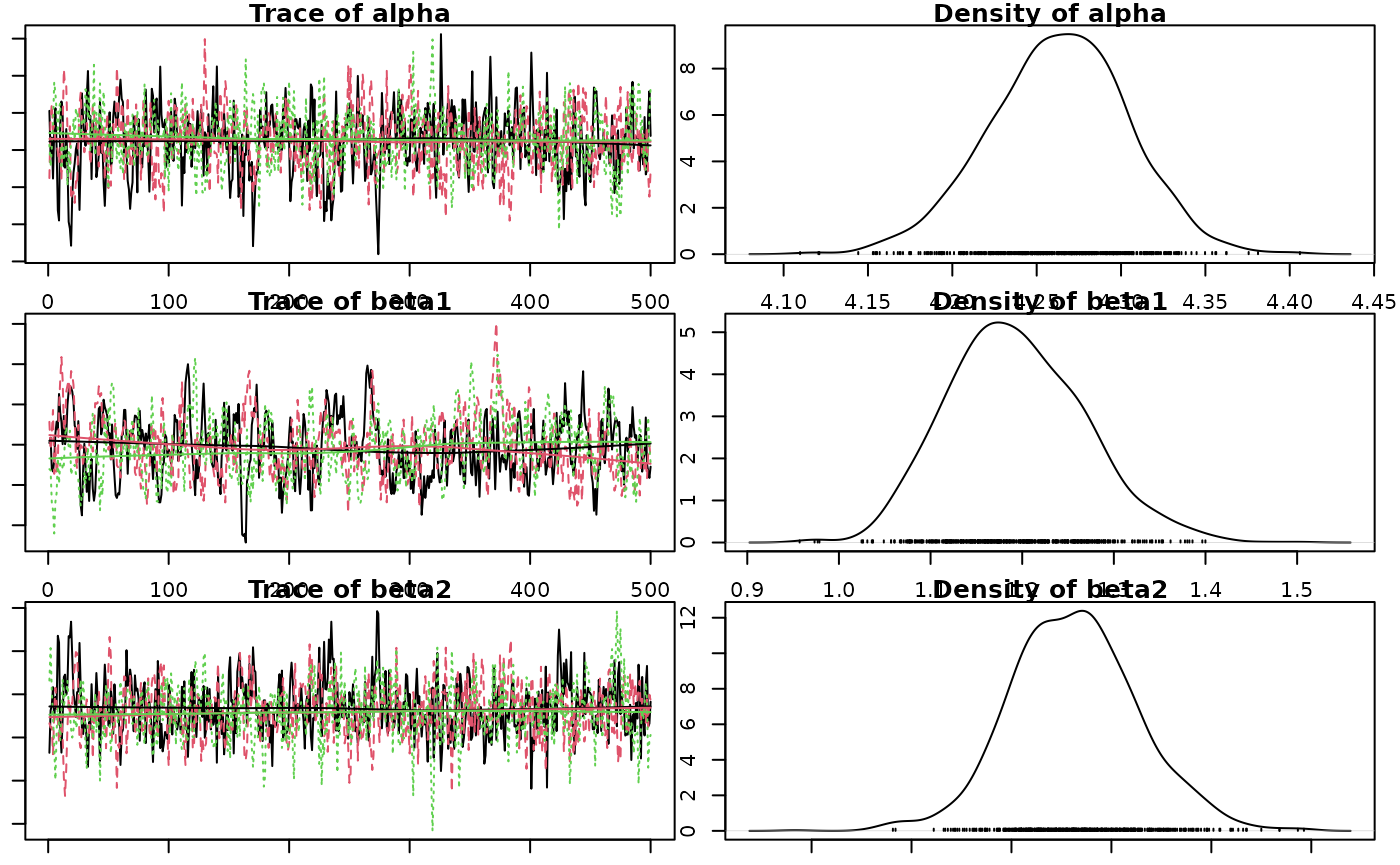
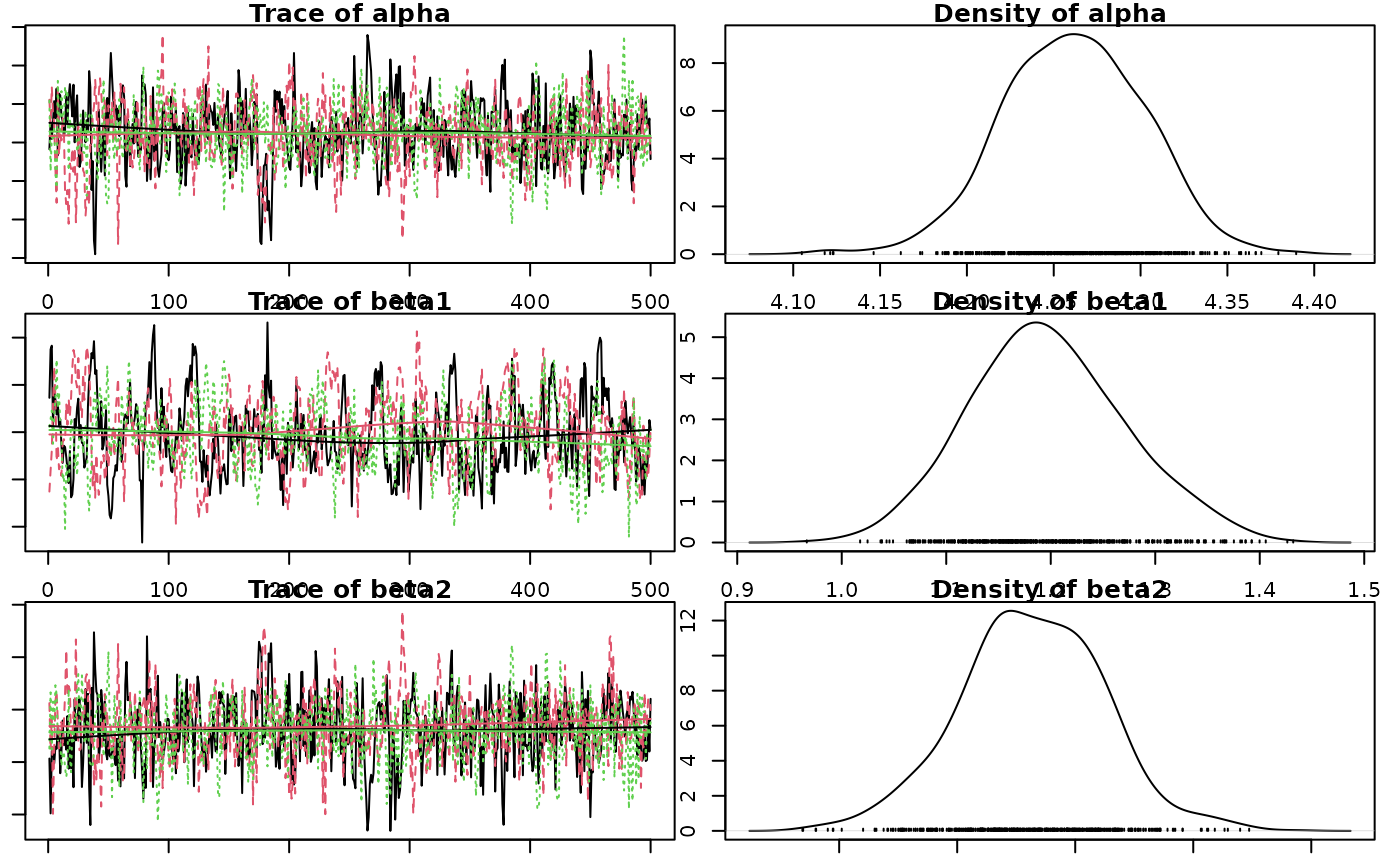
Deploying to gh-pages from @ poissonconsulting/jmbr@fb7d1556a06fde5bd15ce977d49843e7e1ca3788 🚀

diff --git a/articles/jmbr.html b/articles/jmbr.html
@@ -33,7 +33,7 @@
       </button>
       <span class="navbar-brand">
         <a class="navbar-link" href="../index.html">jmbr</a>
-        <span class="version label label-default" data-toggle="tooltip" data-placement="bottom" title="">0.0.0.9112</span>
+        <span class="version label label-default" data-toggle="tooltip" data-placement="bottom" title="">0.0.0.9113</span>
       </span>
     </div>
 
@@ -44,6 +44,9 @@
 </li>
 <li>
   <a href="../reference/index.html">Reference</a>
+</li>
+<li>
+  <a href="../news/index.html">Changelog</a>
 </li>
       </ul>
 <ul class="nav navbar-nav navbar-right">
@@ -290,14 +293,14 @@ value and discarding all other values.</p>
 <span><span class="co">#&gt; <span style="color: #949494;"># A tibble: 1 × 8</span></span></span>
 <span><span class="co">#&gt;       n     K nchains niters nthin   ess  rhat converged</span></span>
 <span><span class="co">#&gt;   <span style="color: #949494; font-style: italic;">&lt;int&gt;</span> <span style="color: #949494; font-style: italic;">&lt;int&gt;</span>   <span style="color: #949494; font-style: italic;">&lt;int&gt;</span>  <span style="color: #949494; font-style: italic;">&lt;int&gt;</span> <span style="color: #949494; font-style: italic;">&lt;int&gt;</span> <span style="color: #949494; font-style: italic;">&lt;int&gt;</span> <span style="color: #949494; font-style: italic;">&lt;dbl&gt;</span> <span style="color: #949494; font-style: italic;">&lt;lgl&gt;</span>    </span></span>
-<span><span class="co">#&gt; <span style="color: #BCBCBC;">1</span>    40     6       3    500    10   238  1.02 TRUE</span></span>
+<span><span class="co">#&gt; <span style="color: #BCBCBC;">1</span>    40     6       3    500    10   270  1.01 TRUE</span></span>
 <span><span class="co">#&gt; Warning in value[[3L]](cond): beep() could not play the sound due to the following error:</span></span>
 <span><span class="co">#&gt; Error in play.default(x, rate, ...): no audio drivers are available</span></span>
 <span><span class="va">analysis</span> <span class="op">&lt;-</span> <span class="fu"><a href="https://rdrr.io/pkg/embr/man/reanalyse.html" class="external-link">reanalyse</a></span><span class="op">(</span><span class="va">analysis</span><span class="op">)</span></span>
 <span><span class="co">#&gt; <span style="color: #949494;"># A tibble: 1 × 8</span></span></span>
 <span><span class="co">#&gt;       n     K nchains niters nthin   ess  rhat converged</span></span>
 <span><span class="co">#&gt;   <span style="color: #949494; font-style: italic;">&lt;int&gt;</span> <span style="color: #949494; font-style: italic;">&lt;int&gt;</span>   <span style="color: #949494; font-style: italic;">&lt;int&gt;</span>  <span style="color: #949494; font-style: italic;">&lt;int&gt;</span> <span style="color: #949494; font-style: italic;">&lt;int&gt;</span> <span style="color: #949494; font-style: italic;">&lt;int&gt;</span> <span style="color: #949494; font-style: italic;">&lt;dbl&gt;</span> <span style="color: #949494; font-style: italic;">&lt;lgl&gt;</span>    </span></span>
-<span><span class="co">#&gt; <span style="color: #BCBCBC;">1</span>    40     6       3    500    10   238  1.02 TRUE</span></span>
+<span><span class="co">#&gt; <span style="color: #BCBCBC;">1</span>    40     6       3    500    10   270  1.01 TRUE</span></span>
 <span><span class="co">#&gt; Warning in value[[3L]](cond): beep() could not play the sound due to the following error:</span></span>
 <span><span class="co">#&gt; Error in play.default(x, rate, ...): no audio drivers are available</span></span></code></pre></div>
 <p><strong>Analysis Table:</strong></p>
@@ -347,12 +350,12 @@ between- and within-chain estimates for model parameters.
 <span><span class="co">#&gt; <span style="color: #949494;"># A tibble: 6 × 7</span></span></span>
 <span><span class="co">#&gt;   term        estimate     sd  zscore   lower   upper   pvalue</span></span>
 <span><span class="co">#&gt;   <span style="color: #949494; font-style: italic;">&lt;term&gt;</span>         <span style="color: #949494; font-style: italic;">&lt;dbl&gt;</span>  <span style="color: #949494; font-style: italic;">&lt;dbl&gt;</span>   <span style="color: #949494; font-style: italic;">&lt;dbl&gt;</span>   <span style="color: #949494; font-style: italic;">&lt;dbl&gt;</span>   <span style="color: #949494; font-style: italic;">&lt;dbl&gt;</span>    <span style="color: #949494; font-style: italic;">&lt;dbl&gt;</span></span></span>
-<span><span class="co">#&gt; <span style="color: #BCBCBC;">1</span> alpha         4.26   0.041<span style="text-decoration: underline;">1</span> 104.     4.18    4.34   0.000<span style="text-decoration: underline;">666</span></span></span>
-<span><span class="co">#&gt; <span style="color: #BCBCBC;">2</span> beta1         1.19   0.074<span style="text-decoration: underline;">4</span>  16.0    1.06    1.35   0.000<span style="text-decoration: underline;">666</span></span></span>
-<span><span class="co">#&gt; <span style="color: #BCBCBC;">3</span> beta2        -<span style="color: #BB0000;">0.018</span><span style="color: #BB0000; text-decoration: underline;">8</span> 0.032<span style="text-decoration: underline;">0</span>  -<span style="color: #BB0000;">0.589</span> -<span style="color: #BB0000;">0.080</span><span style="color: #BB0000; text-decoration: underline;">5</span>  0.046<span style="text-decoration: underline;">9</span> 0.528   </span></span>
-<span><span class="co">#&gt; <span style="color: #BCBCBC;">4</span> beta3        -<span style="color: #BB0000;">0.271</span>  0.038<span style="text-decoration: underline;">0</span>  -<span style="color: #BB0000;">7.16</span>  -<span style="color: #BB0000;">0.353</span>  -<span style="color: #BB0000;">0.204</span>  0.000<span style="text-decoration: underline;">666</span></span></span>
-<span><span class="co">#&gt; <span style="color: #BCBCBC;">5</span> log_sAnnual  -<span style="color: #BB0000;">2.21</span>   0.321   -<span style="color: #BB0000;">7.01</span>  -<span style="color: #BB0000;">2.98</span>   -<span style="color: #BB0000;">1.73</span>   0.000<span style="text-decoration: underline;">666</span></span></span>
-<span><span class="co">#&gt; <span style="color: #BCBCBC;">6</span> sAnnual       0.109  0.032<span style="text-decoration: underline;">0</span>   3.45   0.050<span style="text-decoration: underline;">8</span>  0.177  0.000<span style="text-decoration: underline;">666</span></span></span></code></pre></div>
+<span><span class="co">#&gt; <span style="color: #BCBCBC;">1</span> alpha         4.26   0.041<span style="text-decoration: underline;">0</span> 104.     4.18    4.34   0.000<span style="text-decoration: underline;">666</span></span></span>
+<span><span class="co">#&gt; <span style="color: #BCBCBC;">2</span> beta1         1.19   0.074<span style="text-decoration: underline;">9</span>  16.0    1.06    1.35   0.000<span style="text-decoration: underline;">666</span></span></span>
+<span><span class="co">#&gt; <span style="color: #BCBCBC;">3</span> beta2        -<span style="color: #BB0000;">0.018</span><span style="color: #BB0000; text-decoration: underline;">5</span> 0.030<span style="text-decoration: underline;">7</span>  -<span style="color: #BB0000;">0.601</span> -<span style="color: #BB0000;">0.081</span><span style="color: #BB0000; text-decoration: underline;">3</span>  0.043<span style="text-decoration: underline;">5</span> 0.559   </span></span>
+<span><span class="co">#&gt; <span style="color: #BCBCBC;">4</span> beta3        -<span style="color: #BB0000;">0.273</span>  0.038<span style="text-decoration: underline;">6</span>  -<span style="color: #BB0000;">7.09</span>  -<span style="color: #BB0000;">0.349</span>  -<span style="color: #BB0000;">0.204</span>  0.000<span style="text-decoration: underline;">666</span></span></span>
+<span><span class="co">#&gt; <span style="color: #BCBCBC;">5</span> log_sAnnual  -<span style="color: #BB0000;">2.23</span>   0.328   -<span style="color: #BB0000;">6.89</span>  -<span style="color: #BB0000;">2.95</span>   -<span style="color: #BB0000;">1.73</span>   0.000<span style="text-decoration: underline;">666</span></span></span>
+<span><span class="co">#&gt; <span style="color: #BCBCBC;">6</span> sAnnual       0.108  0.032<span style="text-decoration: underline;">0</span>   3.43   0.052<span style="text-decoration: underline;">2</span>  0.178  0.000<span style="text-decoration: underline;">666</span></span></span></code></pre></div>
 <p>The estimate is the <strong>median</strong> by default.</p>
 <p>The zscore is <span class="math inline">\(mean / sd\)</span>.</p>
 <div class="sourceCode" id="cb12"><pre class="downlit sourceCode r">
@@ -362,10 +365,10 @@ between- and within-chain estimates for model parameters.
 <span><span class="co">#&gt;   <span style="color: #949494; font-style: italic;">&lt;term&gt;</span>         <span style="color: #949494; font-style: italic;">&lt;dbl&gt;</span>   <span style="color: #949494; font-style: italic;">&lt;dbl&gt;</span>   <span style="color: #949494; font-style: italic;">&lt;dbl&gt;</span>  <span style="color: #949494; font-style: italic;">&lt;dbl&gt;</span></span></span>
 <span><span class="co">#&gt; <span style="color: #BCBCBC;">1</span> alpha         4.26    4.18    4.34   10.6  </span></span>
 <span><span class="co">#&gt; <span style="color: #BCBCBC;">2</span> beta1         1.19    1.06    1.35   10.6  </span></span>
-<span><span class="co">#&gt; <span style="color: #BCBCBC;">3</span> beta2        -<span style="color: #BB0000;">0.018</span><span style="color: #BB0000; text-decoration: underline;">8</span> -<span style="color: #BB0000;">0.080</span><span style="color: #BB0000; text-decoration: underline;">5</span>  0.046<span style="text-decoration: underline;">9</span>  0.921</span></span>
-<span><span class="co">#&gt; <span style="color: #BCBCBC;">4</span> beta3        -<span style="color: #BB0000;">0.271</span>  -<span style="color: #BB0000;">0.353</span>  -<span style="color: #BB0000;">0.204</span>  10.6  </span></span>
-<span><span class="co">#&gt; <span style="color: #BCBCBC;">5</span> log_sAnnual  -<span style="color: #BB0000;">2.21</span>   -<span style="color: #BB0000;">2.98</span>   -<span style="color: #BB0000;">1.73</span>   10.6  </span></span>
-<span><span class="co">#&gt; <span style="color: #BCBCBC;">6</span> sAnnual       0.109   0.050<span style="text-decoration: underline;">8</span>  0.177  10.6</span></span></code></pre></div>
+<span><span class="co">#&gt; <span style="color: #BCBCBC;">3</span> beta2        -<span style="color: #BB0000;">0.018</span><span style="color: #BB0000; text-decoration: underline;">5</span> -<span style="color: #BB0000;">0.081</span><span style="color: #BB0000; text-decoration: underline;">3</span>  0.043<span style="text-decoration: underline;">5</span>  0.839</span></span>
+<span><span class="co">#&gt; <span style="color: #BCBCBC;">4</span> beta3        -<span style="color: #BB0000;">0.273</span>  -<span style="color: #BB0000;">0.349</span>  -<span style="color: #BB0000;">0.204</span>  10.6  </span></span>
+<span><span class="co">#&gt; <span style="color: #BCBCBC;">5</span> log_sAnnual  -<span style="color: #BB0000;">2.23</span>   -<span style="color: #BB0000;">2.95</span>   -<span style="color: #BB0000;">1.73</span>   10.6  </span></span>
+<span><span class="co">#&gt; <span style="color: #BCBCBC;">6</span> sAnnual       0.108   0.052<span style="text-decoration: underline;">2</span>  0.178  10.6</span></span></code></pre></div>
 <p>The s-value is the <strong>suprisal</strong> value, which is a
 measure of directionality with respect to zero.</p>
 <p>The s-value is zero (unsurprising) when <em>p-value</em> = 1.0 and

diff --git a/index.html b/index.html
@@ -33,7 +33,7 @@
       </button>
       <span class="navbar-brand">
         <a class="navbar-link" href="index.html">jmbr</a>
-        <span class="version label label-default" data-toggle="tooltip" data-placement="bottom" title="">0.0.0.9112</span>
+        <span class="version label label-default" data-toggle="tooltip" data-placement="bottom" title="">0.0.0.9113</span>
       </span>
     </div>
 
@@ -44,6 +44,9 @@
 </li>
 <li>
   <a href="reference/index.html">Reference</a>
+</li>
+<li>
+  <a href="news/index.html">Changelog</a>
 </li>
       </ul>
 <ul class="nav navbar-nav navbar-right">
@@ -81,10 +84,10 @@
 </h2>
 <div class="sourceCode" id="cb1"><pre class="downlit sourceCode r">
 <code class="sourceCode R"><span><span class="kw"><a href="https://rdrr.io/r/base/library.html" class="external-link">library</a></span><span class="op">(</span><span class="va"><a href="https://github.com/poissonconsulting/jmbr" class="external-link">jmbr</a></span><span class="op">)</span></span>
-<span><span class="kw"><a href="https://rdrr.io/r/base/library.html" class="external-link">library</a></span><span class="op">(</span><span class="va"><a href="https://github.com/poissonconsulting/mbr" class="external-link">mbr</a></span><span class="op">)</span></span></code></pre></div>
+<span><span class="kw"><a href="https://rdrr.io/r/base/library.html" class="external-link">library</a></span><span class="op">(</span><span class="va"><a href="https://github.com/ntthung/mbr" class="external-link">mbr</a></span><span class="op">)</span></span></code></pre></div>
 <div class="sourceCode" id="cb2"><pre class="downlit sourceCode r">
 <code class="sourceCode R"><span><span class="co"># define model in JAGS language</span></span>
-<span><span class="va">model</span> <span class="op">&lt;-</span> <span class="fu"><a href="https://rdrr.io/pkg/mbr/man/model.html" class="external-link">model</a></span><span class="op">(</span><span class="st">"model {</span></span>
+<span><span class="va">model</span> <span class="op">&lt;-</span> <span class="fu">model</span><span class="op">(</span><span class="st">"model {</span></span>
 <span><span class="st">  alpha ~ dnorm(0, 10^-2)</span></span>
 <span><span class="st">  beta1 ~ dnorm(0, 10^-2)</span></span>
 <span><span class="st">  beta2 ~ dnorm(0, 10^-2)</span></span>
@@ -104,13 +107,13 @@
 <span><span class="st">}"</span><span class="op">)</span></span>
 <span></span>
 <span><span class="co"># add R code to calculate derived parameters</span></span>
-<span><span class="va">model</span> <span class="op">&lt;-</span> <span class="fu"><a href="https://rdrr.io/pkg/mbr/man/update_model.html" class="external-link">update_model</a></span><span class="op">(</span><span class="va">model</span>, new_expr <span class="op">=</span> <span class="st">"</span></span>
+<span><span class="va">model</span> <span class="op">&lt;-</span> <span class="fu">update_model</span><span class="op">(</span><span class="va">model</span>, new_expr <span class="op">=</span> <span class="st">"</span></span>
 <span><span class="st">for (i in 1:length(Pairs)) {</span></span>
 <span><span class="st">  log(prediction[i]) &lt;- alpha + beta1 * Year[i] + beta2 * Year[i]^2 + beta3 * Year[i]^3 + bAnnual[Annual[i]]</span></span>
 <span><span class="st">}"</span><span class="op">)</span></span>
 <span></span>
 <span><span class="co"># define data types and center year</span></span>
-<span><span class="va">model</span> <span class="op">&lt;-</span> <span class="fu"><a href="https://rdrr.io/pkg/mbr/man/update_model.html" class="external-link">update_model</a></span><span class="op">(</span><span class="va">model</span>, </span>
+<span><span class="va">model</span> <span class="op">&lt;-</span> <span class="fu">update_model</span><span class="op">(</span><span class="va">model</span>, </span>
 <span>  select_data <span class="op">=</span> <span class="fu"><a href="https://rdrr.io/r/base/list.html" class="external-link">list</a></span><span class="op">(</span><span class="st">"Pairs"</span> <span class="op">=</span> <span class="fu"><a href="https://rdrr.io/r/base/integer.html" class="external-link">integer</a></span><span class="op">(</span><span class="op">)</span>, <span class="st">"Year*"</span> <span class="op">=</span> <span class="fu"><a href="https://rdrr.io/r/base/integer.html" class="external-link">integer</a></span><span class="op">(</span><span class="op">)</span>, Annual <span class="op">=</span> <span class="fu"><a href="https://rdrr.io/r/base/factor.html" class="external-link">factor</a></span><span class="op">(</span><span class="op">)</span><span class="op">)</span>,</span>
 <span>  derived <span class="op">=</span> <span class="st">"sAnnual"</span>,</span>
 <span>  random_effects <span class="op">=</span> <span class="fu"><a href="https://rdrr.io/r/base/list.html" class="external-link">list</a></span><span class="op">(</span>bAnnual <span class="op">=</span> <span class="st">"Annual"</span><span class="op">)</span><span class="op">)</span></span>
@@ -118,10 +121,10 @@
 <span><span class="va">data</span> <span class="op">&lt;-</span> <span class="fu">bauw</span><span class="fu">::</span><span class="va"><a href="https://rdrr.io/pkg/bauw/man/peregrine.html" class="external-link">peregrine</a></span></span>
 <span><span class="va">data</span><span class="op">$</span><span class="va">Annual</span> <span class="op">&lt;-</span> <span class="fu"><a href="https://rdrr.io/r/base/factor.html" class="external-link">factor</a></span><span class="op">(</span><span class="va">data</span><span class="op">$</span><span class="va">Year</span><span class="op">)</span></span>
 <span></span>
-<span><span class="fu"><a href="https://rdrr.io/pkg/mbr/man/set_analysis_mode.html" class="external-link">set_analysis_mode</a></span><span class="op">(</span><span class="st">"report"</span><span class="op">)</span></span>
+<span><span class="fu">set_analysis_mode</span><span class="op">(</span><span class="st">"report"</span><span class="op">)</span></span>
 <span></span>
 <span><span class="co"># analyse</span></span>
-<span><span class="va">analysis</span> <span class="op">&lt;-</span> <span class="fu"><a href="https://rdrr.io/pkg/mbr/man/analyse.html" class="external-link">analyse</a></span><span class="op">(</span><span class="va">model</span>, data <span class="op">=</span> <span class="va">data</span><span class="op">)</span></span>
+<span><span class="va">analysis</span> <span class="op">&lt;-</span> <span class="fu">analyse</span><span class="op">(</span><span class="va">model</span>, data <span class="op">=</span> <span class="va">data</span><span class="op">)</span></span>
 <span><span class="co">#&gt; Registered S3 method overwritten by 'rjags':</span></span>
 <span><span class="co">#&gt;   method               from </span></span>
 <span><span class="co">#&gt;   as.mcmc.list.mcarray mcmcr</span></span>
@@ -129,7 +132,7 @@
 <span><span class="co">#&gt;       n     K nchains niters nthin   ess  rhat converged</span></span>
 <span><span class="co">#&gt;   &lt;int&gt; &lt;int&gt;   &lt;int&gt;  &lt;int&gt; &lt;int&gt; &lt;int&gt; &lt;dbl&gt; &lt;lgl&gt;    </span></span>
 <span><span class="co">#&gt; 1    40     5       3    500     1     9  5.11 FALSE</span></span>
-<span><span class="va">analysis</span> <span class="op">&lt;-</span> <span class="fu"><a href="https://rdrr.io/pkg/mbr/man/reanalyse.html" class="external-link">reanalyse</a></span><span class="op">(</span><span class="va">analysis</span><span class="op">)</span></span>
+<span><span class="va">analysis</span> <span class="op">&lt;-</span> <span class="fu">reanalyse</span><span class="op">(</span><span class="va">analysis</span><span class="op">)</span></span>
 <span><span class="co">#&gt; # A tibble: 1 × 8</span></span>
 <span><span class="co">#&gt;       n     K nchains niters nthin   ess  rhat converged</span></span>
 <span><span class="co">#&gt;   &lt;int&gt; &lt;int&gt;   &lt;int&gt;  &lt;int&gt; &lt;int&gt; &lt;int&gt; &lt;dbl&gt; &lt;lgl&gt;    </span></span>

diff --git a/news/index.html b/news/index.html
@@ -1,0 +1,82 @@
+<!DOCTYPE html>
+<!-- Generated by pkgdown: do not edit by hand --><html lang="en"><head><meta http-equiv="Content-Type" content="text/html; charset=UTF-8"><meta charset="utf-8"><meta http-equiv="X-UA-Compatible" content="IE=edge"><meta name="viewport" content="width=device-width, initial-scale=1.0"><title>Changelog • jmbr</title><!-- jquery --><script src="https://cdnjs.cloudflare.com/ajax/libs/jquery/3.4.1/jquery.min.js" integrity="sha256-CSXorXvZcTkaix6Yvo6HppcZGetbYMGWSFlBw8HfCJo=" crossorigin="anonymous"></script><!-- Bootstrap --><link rel="stylesheet" href="https://cdnjs.cloudflare.com/ajax/libs/twitter-bootstrap/3.4.1/css/bootstrap.min.css" integrity="sha256-bZLfwXAP04zRMK2BjiO8iu9pf4FbLqX6zitd+tIvLhE=" crossorigin="anonymous"><script src="https://cdnjs.cloudflare.com/ajax/libs/twitter-bootstrap/3.4.1/js/bootstrap.min.js" integrity="sha256-nuL8/2cJ5NDSSwnKD8VqreErSWHtnEP9E7AySL+1ev4=" crossorigin="anonymous"></script><!-- bootstrap-toc --><link rel="stylesheet" href="../bootstrap-toc.css"><script src="../bootstrap-toc.js"></script><!-- Font Awesome icons --><link rel="stylesheet" href="https://cdnjs.cloudflare.com/ajax/libs/font-awesome/5.12.1/css/all.min.css" integrity="sha256-mmgLkCYLUQbXn0B1SRqzHar6dCnv9oZFPEC1g1cwlkk=" crossorigin="anonymous"><link rel="stylesheet" href="https://cdnjs.cloudflare.com/ajax/libs/font-awesome/5.12.1/css/v4-shims.min.css" integrity="sha256-wZjR52fzng1pJHwx4aV2AO3yyTOXrcDW7jBpJtTwVxw=" crossorigin="anonymous"><!-- clipboard.js --><script src="https://cdnjs.cloudflare.com/ajax/libs/clipboard.js/2.0.6/clipboard.min.js" integrity="sha256-inc5kl9MA1hkeYUt+EC3BhlIgyp/2jDIyBLS6k3UxPI=" crossorigin="anonymous"></script><!-- headroom.js --><script src="https://cdnjs.cloudflare.com/ajax/libs/headroom/0.11.0/headroom.min.js" integrity="sha256-AsUX4SJE1+yuDu5+mAVzJbuYNPHj/WroHuZ8Ir/CkE0=" crossorigin="anonymous"></script><script src="https://cdnjs.cloudflare.com/ajax/libs/headroom/0.11.0/jQuery.headroom.min.js" integrity="sha256-ZX/yNShbjqsohH1k95liqY9Gd8uOiE1S4vZc+9KQ1K4=" crossorigin="anonymous"></script><!-- pkgdown --><link href="../pkgdown.css" rel="stylesheet"><script src="../pkgdown.js"></script><meta property="og:title" content="Changelog"><!-- mathjax --><script src="https://cdnjs.cloudflare.com/ajax/libs/mathjax/2.7.5/MathJax.js" integrity="sha256-nvJJv9wWKEm88qvoQl9ekL2J+k/RWIsaSScxxlsrv8k=" crossorigin="anonymous"></script><script src="https://cdnjs.cloudflare.com/ajax/libs/mathjax/2.7.5/config/TeX-AMS-MML_HTMLorMML.js" integrity="sha256-84DKXVJXs0/F8OTMzX4UR909+jtl4G7SPypPavF+GfA=" crossorigin="anonymous"></script><!--[if lt IE 9]>
+<script src="https://oss.maxcdn.com/html5shiv/3.7.3/html5shiv.min.js"></script>
+<script src="https://oss.maxcdn.com/respond/1.4.2/respond.min.js"></script>
+<![endif]--></head><body data-spy="scroll" data-target="#toc">
+    
+
+    <div class="container template-news">
+      <header><div class="navbar navbar-default navbar-fixed-top" role="navigation">
+  <div class="container">
+    <div class="navbar-header">
+      <button type="button" class="navbar-toggle collapsed" data-toggle="collapse" data-target="#navbar" aria-expanded="false">
+        <span class="sr-only">Toggle navigation</span>
+        <span class="icon-bar"></span>
+        <span class="icon-bar"></span>
+        <span class="icon-bar"></span>
+      </button>
+      <span class="navbar-brand">
+        <a class="navbar-link" href="../index.html">jmbr</a>
+        <span class="version label label-default" data-toggle="tooltip" data-placement="bottom" title="">0.0.0.9113</span>
+      </span>
+    </div>
+
+    <div id="navbar" class="navbar-collapse collapse">
+      <ul class="nav navbar-nav"><li>
+  <a href="../articles/jmbr.html">Get started</a>
+</li>
+<li>
+  <a href="../reference/index.html">Reference</a>
+</li>
+<li>
+  <a href="../news/index.html">Changelog</a>
+</li>
+      </ul><ul class="nav navbar-nav navbar-right"><li>
+  <a href="https://github.com/poissonconsulting/jmbr/" class="external-link">
+    <span class="fab fa-github fa-lg"></span>
+     
+  </a>
+</li>
+      </ul></div><!--/.nav-collapse -->
+  </div><!--/.container -->
+</div><!--/.navbar -->
+
+      
+
+      </header><div class="row">
+  <div class="col-md-9 contents">
+    <div class="page-header">
+      <h1 data-toc-skip>Changelog <small></small></h1>
+      <small>Source: <a href="https://github.com/poissonconsulting/jmbr/blob/HEAD/NEWS.md" class="external-link"><code>NEWS.md</code></a></small>
+    </div>
+
+    <div class="section level2">
+<h2 class="page-header" data-toc-text="0.0.0.9113" id="jmbr-0009113-2023-07-17">jmbr 0.0.0.9113 (2023-07-17)<a class="anchor" aria-label="anchor" href="#jmbr-0009113-2023-07-17"></a></h2>
+<ul><li>Switched from mbr to embr.</li>
+</ul></div>
+  </div>
+
+  <div class="col-md-3 hidden-xs hidden-sm" id="pkgdown-sidebar">
+    <nav id="toc" data-toggle="toc" class="sticky-top"><h2 data-toc-skip>Contents</h2>
+    </nav></div>
+
+</div>
+
+
+      <footer><div class="copyright">
+  <p></p><p>Developed by Joe Thorley.</p>
+</div>
+
+<div class="pkgdown">
+  <p></p><p>Site built with <a href="https://pkgdown.r-lib.org/" class="external-link">pkgdown</a> 2.0.7.</p>
+</div>
+
+      </footer></div>
+
+  
+
+
+  
+
+  </body></html>
+

diff --git a/articles/index.html b/articles/index.html
@@ -17,7 +17,7 @@
       </button>
       <span class="navbar-brand">
         <a class="navbar-link" href="../index.html">jmbr</a>
-        <span class="version label label-default" data-toggle="tooltip" data-placement="bottom" title="">0.0.0.9112</span>
+        <span class="version label label-default" data-toggle="tooltip" data-placement="bottom" title="">0.0.0.9113</span>
       </span>
     </div>
 
@@ -27,6 +27,9 @@
 </li>
 <li>
   <a href="../reference/index.html">Reference</a>
+</li>
+<li>
+  <a href="../news/index.html">Changelog</a>
 </li>
       </ul><ul class="nav navbar-nav navbar-right"><li>
   <a href="https://github.com/poissonconsulting/jmbr/" class="external-link">

diff --git a/reference/index.html b/reference/index.html
@@ -17,7 +17,7 @@
       </button>
       <span class="navbar-brand">
         <a class="navbar-link" href="../index.html">jmbr</a>
-        <span class="version label label-default" data-toggle="tooltip" data-placement="bottom" title="">0.0.0.9112</span>
+        <span class="version label label-default" data-toggle="tooltip" data-placement="bottom" title="">0.0.0.9113</span>
       </span>
     </div>
 
@@ -27,6 +27,9 @@
 </li>
 <li>
   <a href="../reference/index.html">Reference</a>
+</li>
+<li>
+  <a href="../news/index.html">Changelog</a>
 </li>
       </ul><ul class="nav navbar-nav navbar-right"><li>
   <a href="https://github.com/poissonconsulting/jmbr/" class="external-link">

diff --git a/reference/is.jmb_analysis.html b/reference/is.jmb_analysis.html
@@ -17,7 +17,7 @@
       </button>
       <span class="navbar-brand">
         <a class="navbar-link" href="../index.html">jmbr</a>
-        <span class="version label label-default" data-toggle="tooltip" data-placement="bottom" title="">0.0.0.9112</span>
+        <span class="version label label-default" data-toggle="tooltip" data-placement="bottom" title="">0.0.0.9113</span>
       </span>
     </div>
 
@@ -27,6 +27,9 @@
 </li>
 <li>
   <a href="../reference/index.html">Reference</a>
+</li>
+<li>
+  <a href="../news/index.html">Changelog</a>
 </li>
       </ul><ul class="nav navbar-nav navbar-right"><li>
   <a href="https://github.com/poissonconsulting/jmbr/" class="external-link">

diff --git a/reference/is.jmb_code.html b/reference/is.jmb_code.html
@@ -17,7 +17,7 @@
       </button>
       <span class="navbar-brand">
         <a class="navbar-link" href="../index.html">jmbr</a>
-        <span class="version label label-default" data-toggle="tooltip" data-placement="bottom" title="">0.0.0.9112</span>
+        <span class="version label label-default" data-toggle="tooltip" data-placement="bottom" title="">0.0.0.9113</span>
       </span>
     </div>
 
@@ -27,6 +27,9 @@
 </li>
 <li>
   <a href="../reference/index.html">Reference</a>
+</li>
+<li>
+  <a href="../news/index.html">Changelog</a>
 </li>
       </ul><ul class="nav navbar-nav navbar-right"><li>
   <a href="https://github.com/poissonconsulting/jmbr/" class="external-link">

diff --git a/reference/is.jmb_model.html b/reference/is.jmb_model.html
@@ -17,7 +17,7 @@
       </button>
       <span class="navbar-brand">
         <a class="navbar-link" href="../index.html">jmbr</a>
-        <span class="version label label-default" data-toggle="tooltip" data-placement="bottom" title="">0.0.0.9112</span>
+        <span class="version label label-default" data-toggle="tooltip" data-placement="bottom" title="">0.0.0.9113</span>
       </span>
     </div>
 
@@ -27,6 +27,9 @@
 </li>
 <li>
   <a href="../reference/index.html">Reference</a>
+</li>
+<li>
+  <a href="../news/index.html">Changelog</a>
 </li>
       </ul><ul class="nav navbar-nav navbar-right"><li>
   <a href="https://github.com/poissonconsulting/jmbr/" class="external-link">

diff --git a/reference/jmbr-package.html b/reference/jmbr-package.html
@@ -17,7 +17,7 @@
       </button>
       <span class="navbar-brand">
         <a class="navbar-link" href="../index.html">jmbr</a>
-        <span class="version label label-default" data-toggle="tooltip" data-placement="bottom" title="">0.0.0.9112</span>
+        <span class="version label label-default" data-toggle="tooltip" data-placement="bottom" title="">0.0.0.9113</span>
       </span>
     </div>
 
@@ -27,6 +27,9 @@
 </li>
 <li>
   <a href="../reference/index.html">Reference</a>
+</li>
+<li>
+  <a href="../news/index.html">Changelog</a>
 </li>
       </ul><ul class="nav navbar-nav navbar-right"><li>
   <a href="https://github.com/poissonconsulting/jmbr/" class="external-link">

diff --git a/CODE_OF_CONDUCT.html b/CODE_OF_CONDUCT.html
@@ -17,7 +17,7 @@
       </button>
       <span class="navbar-brand">
         <a class="navbar-link" href="index.html">jmbr</a>
-        <span class="version label label-default" data-toggle="tooltip" data-placement="bottom" title="">0.0.0.9112</span>
+        <span class="version label label-default" data-toggle="tooltip" data-placement="bottom" title="">0.0.0.9113</span>
       </span>
     </div>
 
@@ -27,6 +27,9 @@
 </li>
 <li>
   <a href="reference/index.html">Reference</a>
+</li>
+<li>
+  <a href="news/index.html">Changelog</a>
 </li>
       </ul><ul class="nav navbar-nav navbar-right"><li>
   <a href="https://github.com/poissonconsulting/jmbr/" class="external-link">

diff --git a/CONTRIBUTING.html b/CONTRIBUTING.html
@@ -17,7 +17,7 @@
       </button>
       <span class="navbar-brand">
         <a class="navbar-link" href="index.html">jmbr</a>
-        <span class="version label label-default" data-toggle="tooltip" data-placement="bottom" title="">0.0.0.9112</span>
+        <span class="version label label-default" data-toggle="tooltip" data-placement="bottom" title="">0.0.0.9113</span>
       </span>
     </div>
 
@@ -27,6 +27,9 @@
 </li>
 <li>
   <a href="reference/index.html">Reference</a>
+</li>
+<li>
+  <a href="news/index.html">Changelog</a>
 </li>
       </ul><ul class="nav navbar-nav navbar-right"><li>
   <a href="https://github.com/poissonconsulting/jmbr/" class="external-link">

diff --git a/LICENSE-text.html b/LICENSE-text.html
@@ -17,7 +17,7 @@
       </button>
       <span class="navbar-brand">
         <a class="navbar-link" href="index.html">jmbr</a>
-        <span class="version label label-default" data-toggle="tooltip" data-placement="bottom" title="">0.0.0.9112</span>
+        <span class="version label label-default" data-toggle="tooltip" data-placement="bottom" title="">0.0.0.9113</span>
       </span>
     </div>
 
@@ -27,6 +27,9 @@
 </li>
 <li>
   <a href="reference/index.html">Reference</a>
+</li>
+<li>
+  <a href="news/index.html">Changelog</a>
 </li>
       </ul><ul class="nav navbar-nav navbar-right"><li>
   <a href="https://github.com/poissonconsulting/jmbr/" class="external-link">
